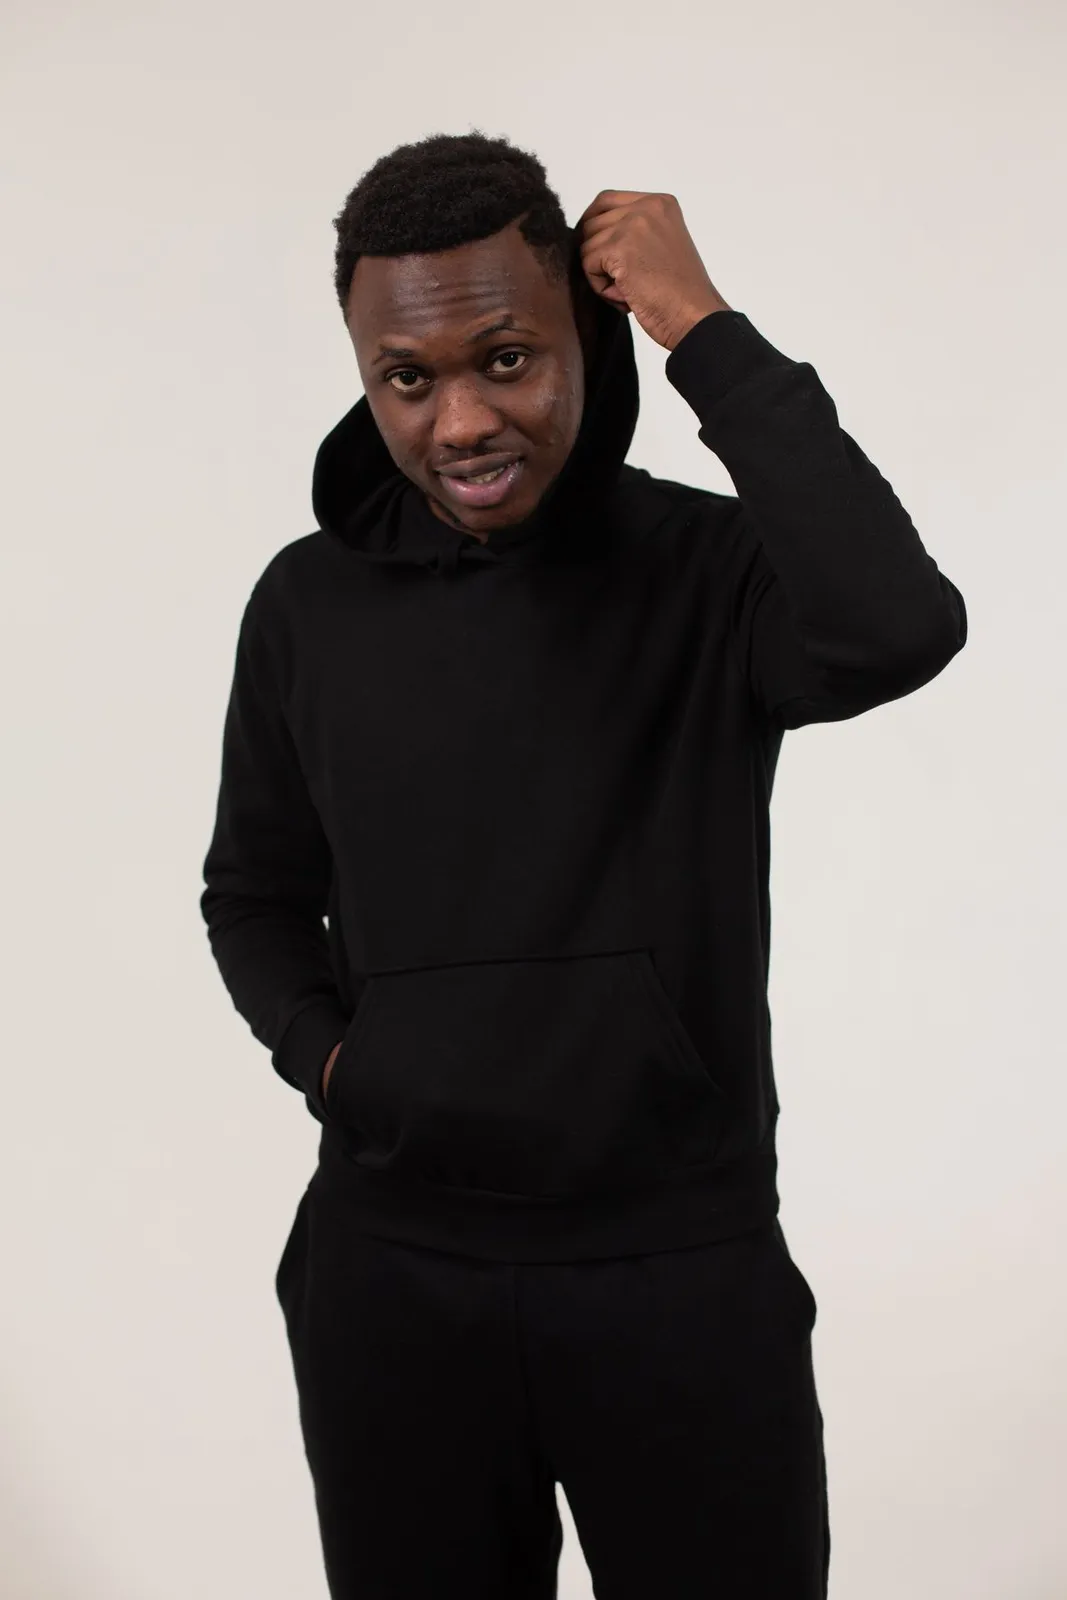
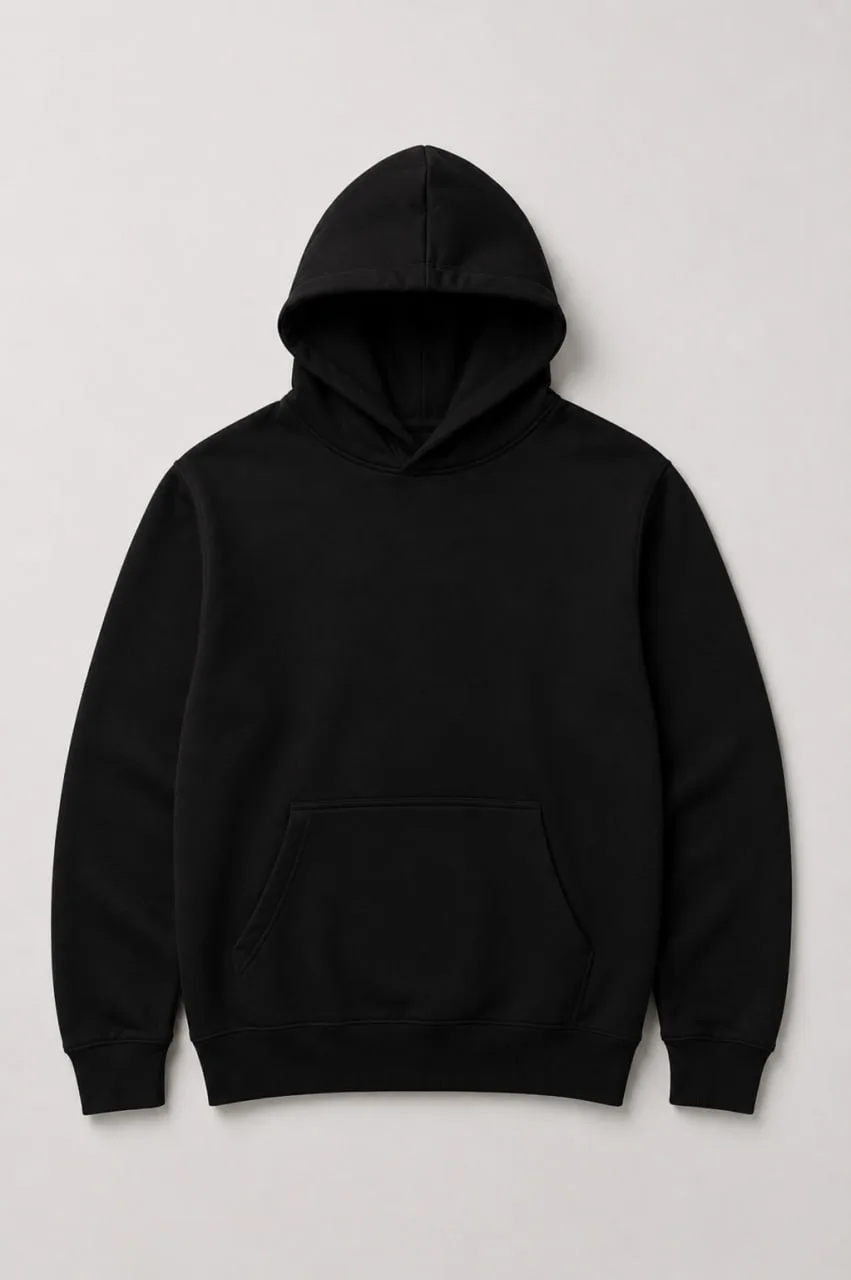
feat: Model-Fotos als Cover fuer alle Produkte
- 15 neue Fotos (Beanie, Hoodie, Sweat, Fleece, Vorbinder, Cap, 2. Vorbinder-Modell)
- Alle Produktkarten zeigen jetzt Personen; Flach-/Produktfotos nur noch in der Galerie
- Beanie-Platzhalter und Hoodie-Stockfoto ersetzt

diff --git a/data/products.js b/data/products.js
@@ -5,8 +5,8 @@ export const PRODUCTS = [
     name: 'Gastro T-Shirt',
     desc: '24/1 Supreme Baumwolle · Premium Profi-Ware',
     deliveryTime: '1–2 Wochen',
-    image: '/images/tshirt.webp',
-    backImage: '/images/tshirt-star-front.webp',
+    image: '/images/tshirt-star-front.webp',
+    backImage: '/images/tshirt-star-back.webp',
     gallery: [
       { src: '/images/tshirt.webp', label: 'Produkt' },
       { src: '/images/tshirt-star-front.webp', label: 'Kundenbeispiel Rot — Vorderdruck' },
@@ -50,8 +50,14 @@ export const PRODUCTS = [
     name: 'Premium Sweatshirt',
     desc: '320 g/m² · Hochwertig & Winterfest',
     deliveryTime: '3–4 Wochen',
-    image: '/images/sweat-front.webp',
-    backImage: '/images/sweat-back.webp',
+    image: '/images/sweat-model.webp',
+    backImage: '/images/sweat-model-rot.webp',
+    gallery: [
+      { src: '/images/sweat-model.webp', label: 'Am Modell — Schwarz' },
+      { src: '/images/sweat-model-rot.webp', label: 'Am Modell — Rot' },
+      { src: '/images/sweat-front.webp', label: 'Produkt — Vorderseite' },
+      { src: '/images/sweat-back.webp', label: 'Produkt — Rückseite' },
+    ],
     oldPrice: 33.00,
     newPrice: 24.00,
     badge: 'NEUKUNDENANGEBOT',
@@ -107,7 +113,13 @@ export const PRODUCTS = [
     name: 'Fleece Jacke',
     desc: 'Anti-Pilling Fleece · Warm & Atmungsaktiv',
     deliveryTime: '3–4 Wochen',
-    image: '/images/fleece.webp',
+    image: '/images/fleece-model.webp',
+    backImage: '/images/fleece-model-marine.webp',
+    gallery: [
+      { src: '/images/fleece-model.webp', label: 'Am Modell — Schwarz' },
+      { src: '/images/fleece-model-marine.webp', label: 'Am Modell — Marineblau' },
+      { src: '/images/fleece.webp', label: 'Produkt' },
+    ],
     oldPrice: 33.00,
     newPrice: 24.00,
     badge: 'NEU',
@@ -145,7 +157,13 @@ export const PRODUCTS = [
     name: 'Vorbinder-Schürze',
     desc: 'Premium Alpaka-Gewebe · Pflegeleicht & Langlebig',
     deliveryTime: '1–2 Wochen',
-    image: '/images/apron-waist.webp',
+    image: '/images/apron-waist-model.webp',
+    backImage: '/images/apron-waist-model-2.webp',
+    gallery: [
+      { src: '/images/apron-waist-model.webp', label: 'Am Modell' },
+      { src: '/images/apron-waist-model-2.webp', label: 'Am Modell — Service' },
+      { src: '/images/apron-waist.webp', label: 'Produkt' },
+    ],
     oldPrice: 15.00,
     newPrice: 12.00,
     badge: 'NEU',
@@ -219,9 +237,10 @@ export const PRODUCTS = [
     name: 'Team-Kappe',
     desc: 'Premium Gabardine · EVA-verstärkte Front',
     deliveryTime: '3–4 Wochen',
-    image: '/images/cap.webp',
+    image: '/images/cap-model-weiss.webp',
     backImage: '/images/cap-front.webp',
     gallery: [
+      { src: '/images/cap-model-weiss.webp', label: 'Am Modell — Weiß mit Bestickung' },
       { src: '/images/cap.webp', label: 'Produkt' },
       { src: '/images/cap-front.webp', label: 'Kundenbeispiel — Front' },
       { src: '/images/cap-side.webp', label: 'Kundenbeispiel — Seite' },
@@ -293,7 +312,7 @@ export const PRODUCTS = [
     name: 'Polo-Shirt',
     desc: 'Piqué 100% Baumwolle · Klassisch & Formstabil',
     deliveryTime: '3–4 Wochen',
-    image: '/images/polo-flat.webp',
+    image: '/images/polo-front.webp',
     backImage: '/images/polo-back.webp',
     gallery: [
       { src: '/images/polo-flat.webp', label: 'Produkt' },
@@ -336,7 +355,14 @@ export const PRODUCTS = [
     name: 'Premium Hoodie',
     desc: '320 g/m² · Kängurutasche & Gefütterte Kapuze',
     deliveryTime: '3–4 Wochen',
-    image: '/images/hoodie.webp',
+    image: '/images/hoodie-model.webp',
+    backImage: '/images/hoodie-model-weiss.webp',
+    gallery: [
+      { src: '/images/hoodie-model.webp', label: 'Am Modell — Schwarz' },
+      { src: '/images/hoodie-model-weiss.webp', label: 'Am Modell — Weiß' },
+      { src: '/images/hoodie.webp', label: 'Produkt — Schwarz' },
+      { src: '/images/hoodie-weiss.webp', label: 'Produkt — Weiß' },
+    ],
     colors: [{ name: 'Schwarz', hex: '#0a0a0a' }, { name: 'Grau', hex: '#6b7280' }, { name: 'Rot', hex: '#c8102e' }],
     hasSizes: true,
     hasBackPrint: true,
@@ -364,13 +390,13 @@ export const PRODUCTS = [
     name: 'Bistroschürze',
     desc: 'Lange Kellnerschürze · Premium Alpaka-Gewebe',
     deliveryTime: '1–2 Wochen',
-    image: '/images/bistro.webp',
-    backImage: '/images/bistro-model.webp',
+    image: '/images/bistro-model.webp',
+    backImage: '/images/bistro-model-rot.webp',
     gallery: [
-      { src: '/images/bistro.webp', label: 'Produkt — Schwarz' },
       { src: '/images/bistro-model.webp', label: 'Am Modell — Schwarz' },
-      { src: '/images/bistro-rot.webp', label: 'Produkt — Rot' },
       { src: '/images/bistro-model-rot.webp', label: 'Am Modell — Rot' },
+      { src: '/images/bistro.webp', label: 'Produkt — Schwarz' },
+      { src: '/images/bistro-rot.webp', label: 'Produkt — Rot' },
     ],
     colors: [{ name: 'Schwarz', hex: '#0a0a0a' }, { name: 'Weiß', hex: '#f5f5f0' }, { name: 'Rot', hex: '#c8102e' }],
     hasSizes: false,
@@ -398,7 +424,14 @@ export const PRODUCTS = [
     name: 'Strick-Beanie',
     desc: 'Feinstrick · Warm & Formstabil',
     deliveryTime: '3–4 Wochen',
-    image: '/images/beanie.webp',
+    image: '/images/beanie-model.webp',
+    backImage: '/images/beanie-model-weiss.webp',
+    gallery: [
+      { src: '/images/beanie-model.webp', label: 'Am Modell — Schwarz' },
+      { src: '/images/beanie-model-weiss.webp', label: 'Am Modell — Weiß' },
+      { src: '/images/beanie.webp', label: 'Produkt — Schwarz' },
+      { src: '/images/beanie-weiss.webp', label: 'Produkt — Weiß' },
+    ],
     colors: [{ name: 'Schwarz', hex: '#0a0a0a' }, { name: 'Grau', hex: '#6b7280' }, { name: 'Rot', hex: '#c8102e' }],
     hasSizes: false,
     longDesc: 'Das Strick-Beanie aus weichem Feinstrick ergänzt das Team-Outfit in der kalten Jahreszeit — für Lieferdienste, Foodtrucks, Wintergastronomie und Außenbereiche. Der doppelt gestrickte Umschlag hält warm und bietet die perfekte Fläche für Ihre Logo-Bestickung. Das elastische Feinstrick-Material passt sich jeder Kopfform an und behält dauerhaft seine Form. Einheitsgröße, maschinenwaschbar und in drei Farben erhältlich — der unkomplizierte Weg zum einheitlichen Team-Look auch im Winter.',
